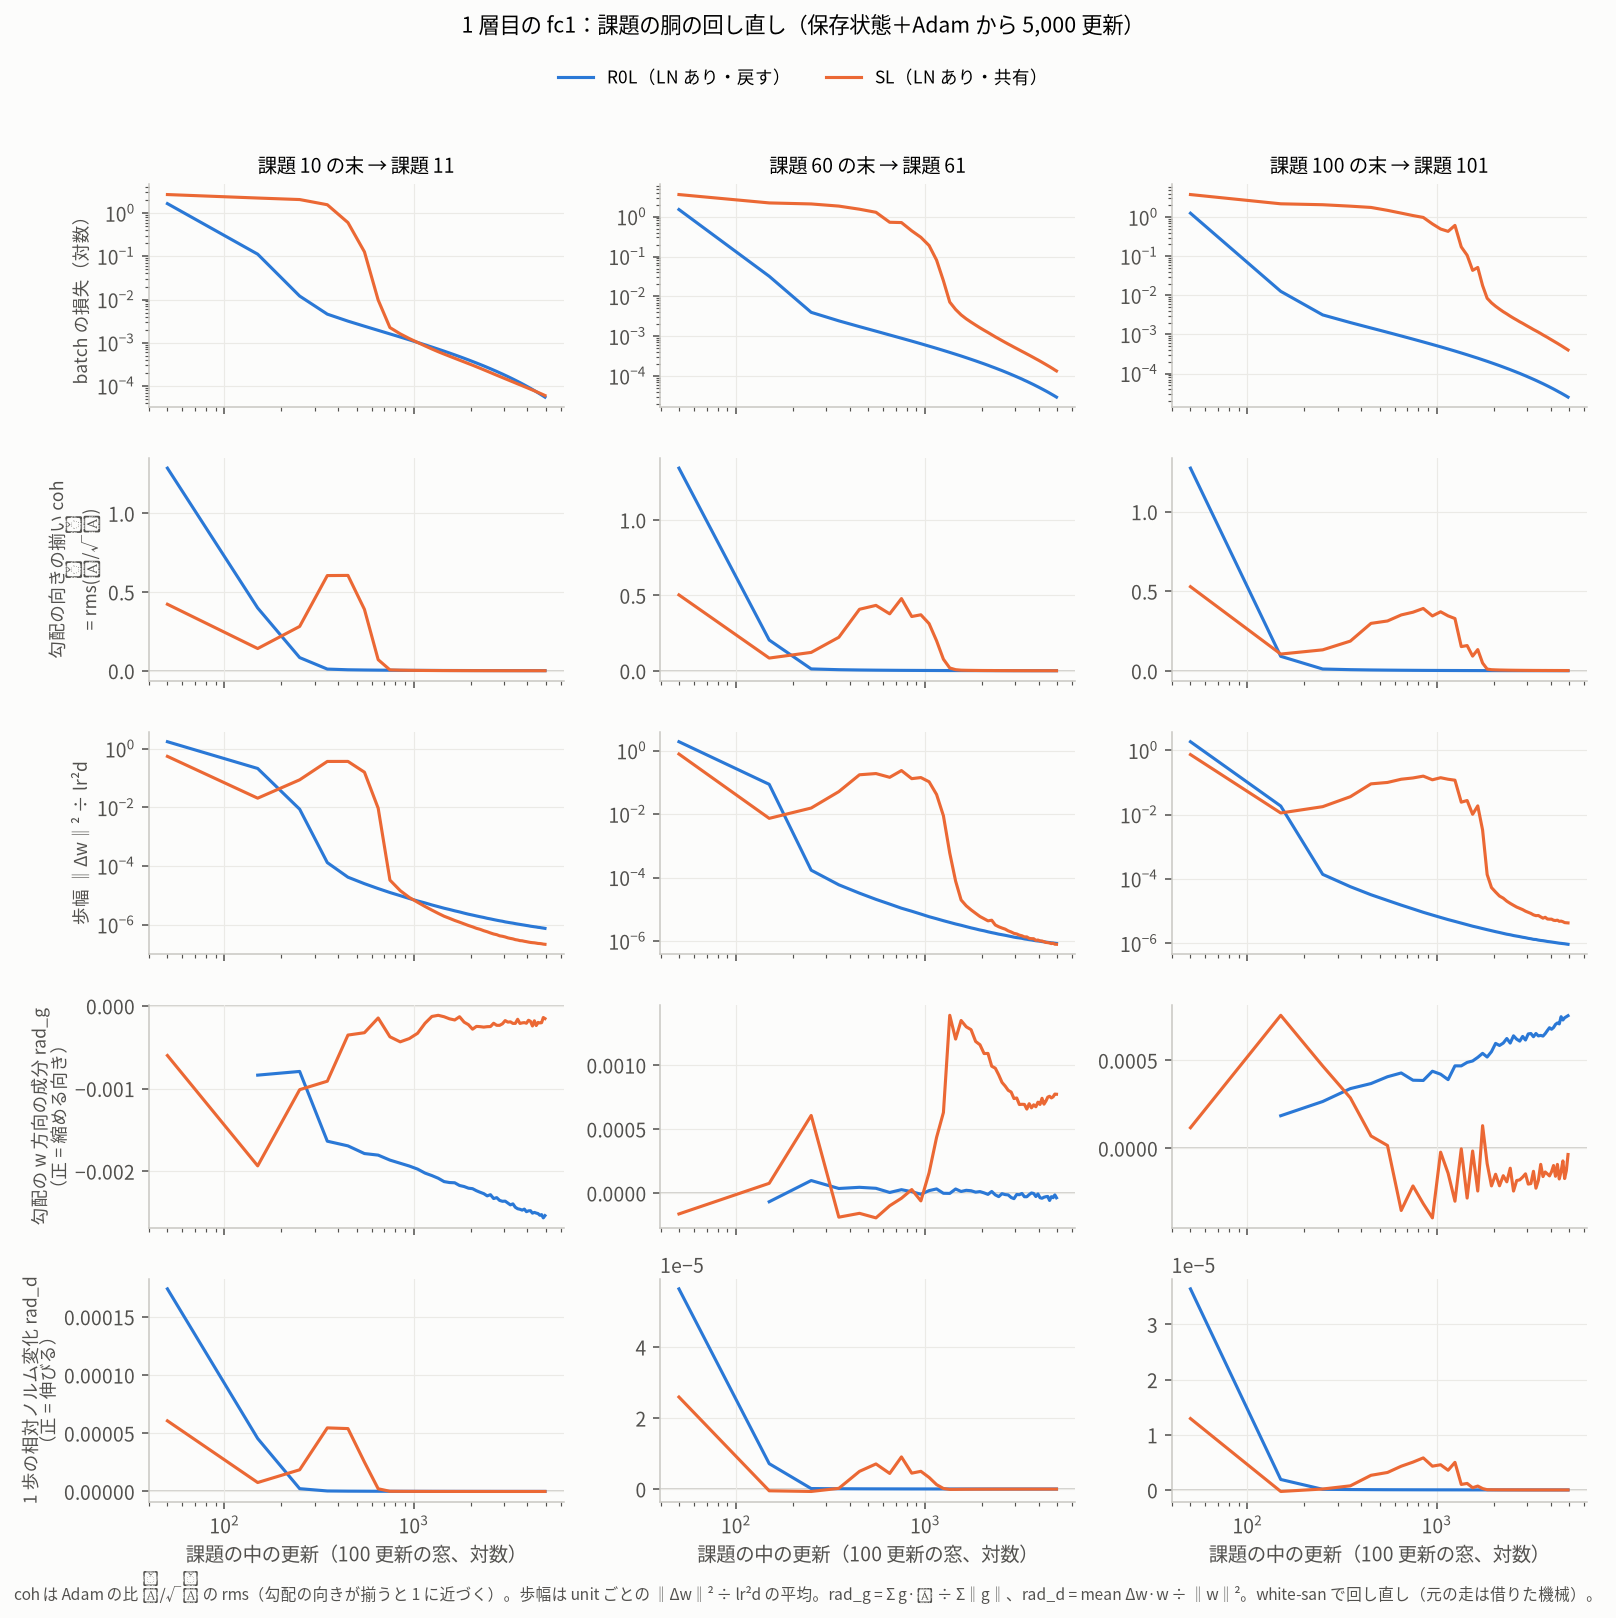
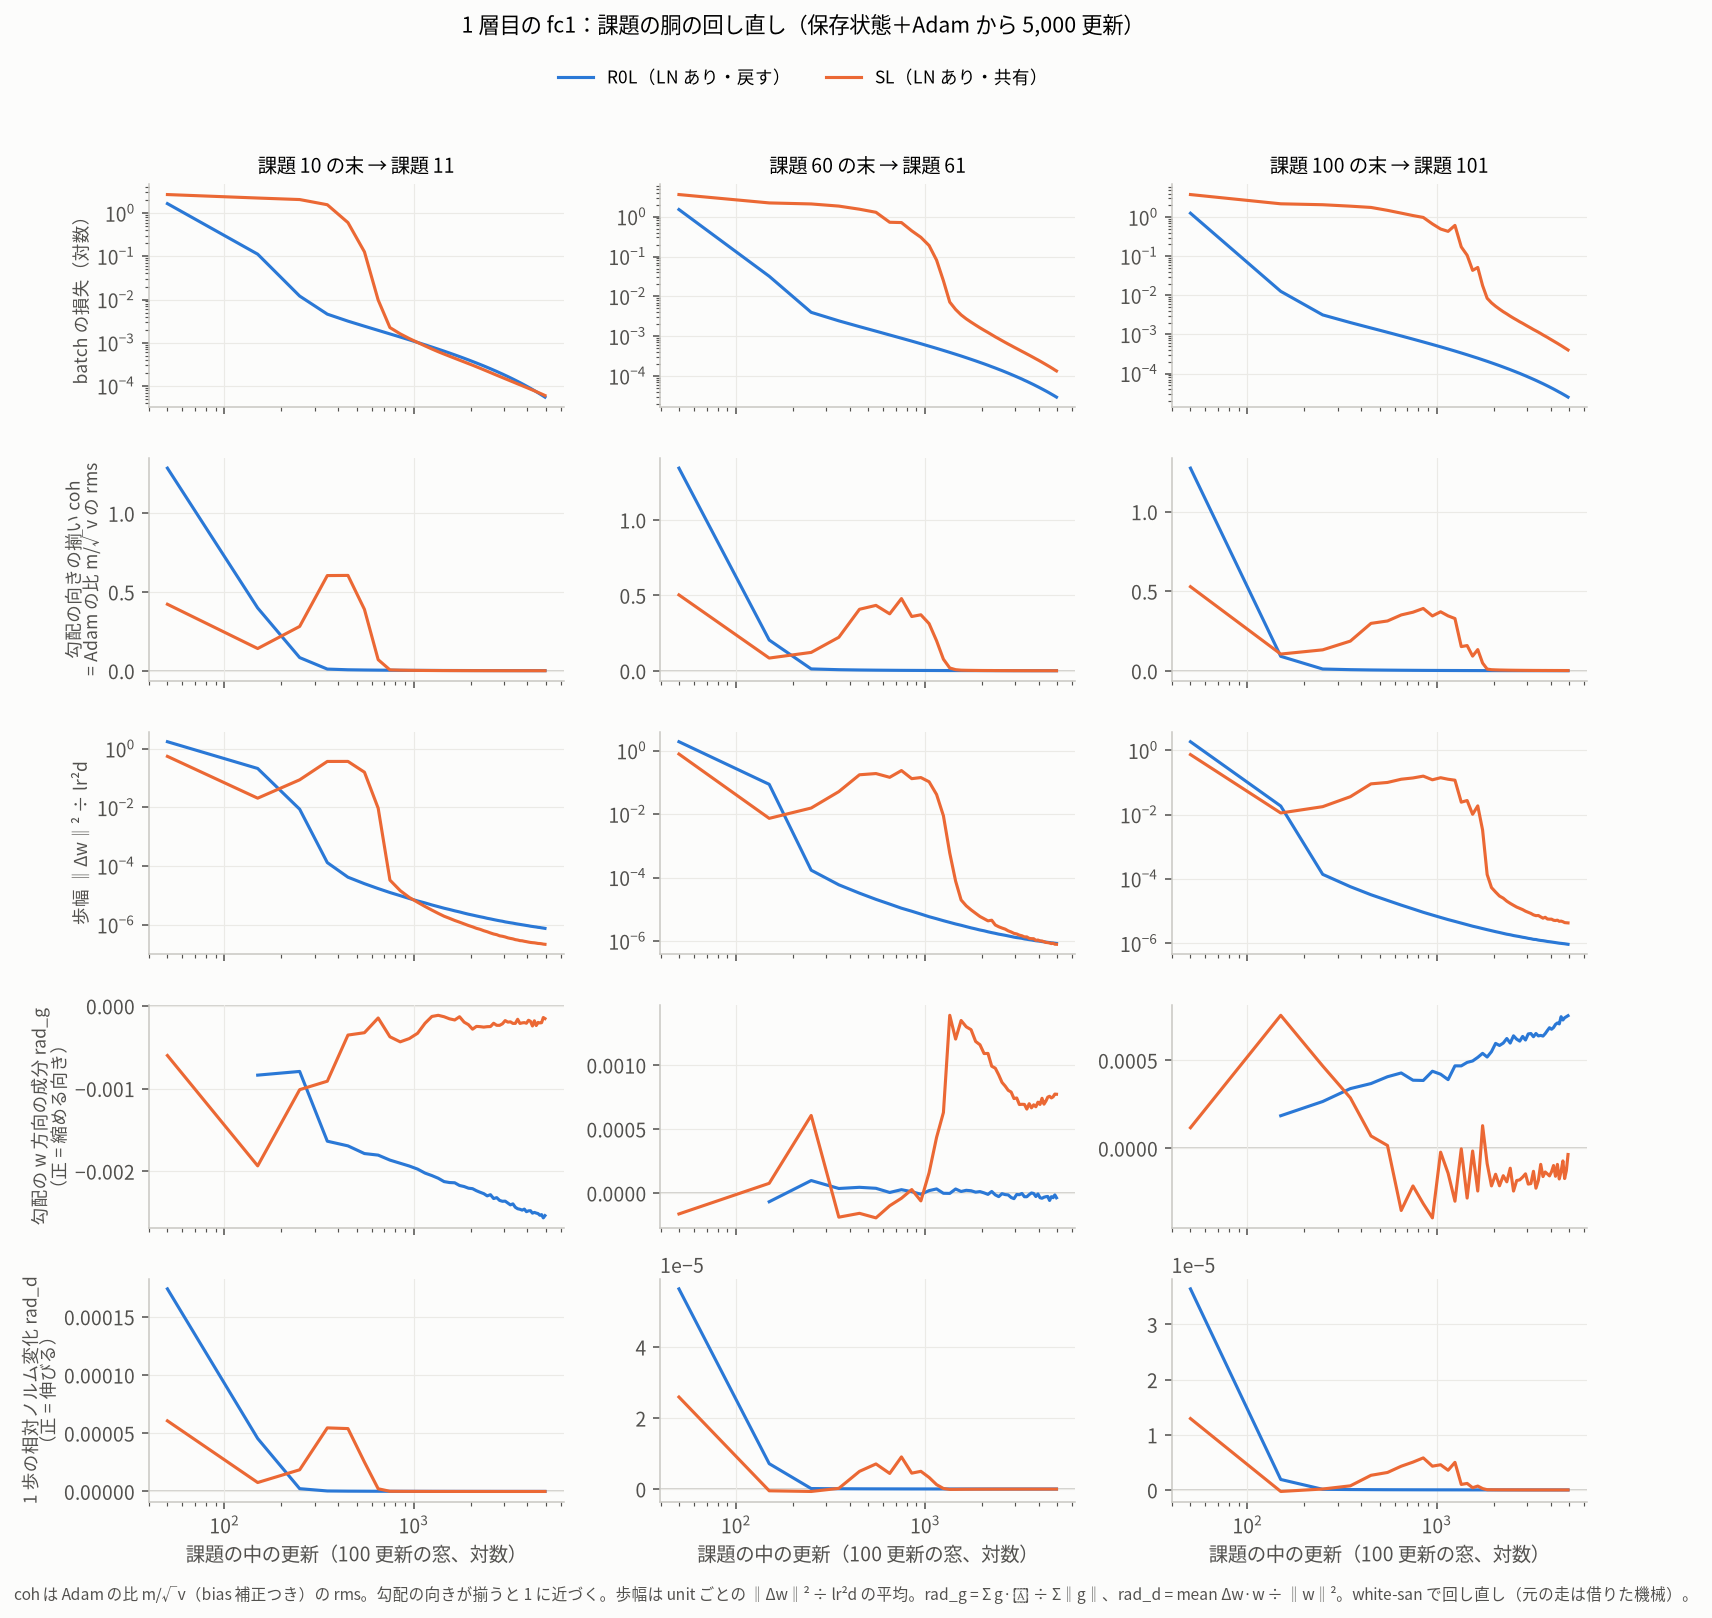
vit_long_1024: 回し直しの図のラベルの文字化け（m̂ v̂）を直す

diff --git a/analysis/vit_long_1024/posthoc_2blk/body_replay_plot.py b/analysis/vit_long_1024/posthoc_2blk/body_replay_plot.py
@@ -17,7 +17,7 @@ plt.rcParams.update({'font.family': 'Noto Sans CJK JP', 'font.size': 10, 'axes.e
 ARMS = [('R0L', 'R0L（LN あり・戻す）', '#2a78d6'), ('SL', 'SL（LN あり・共有）', '#eb6834')]
 TS = (10, 60, 100)
 W = 100
-ROWS = [('loss', 'batch の損失（対数）', True), ('coh', '勾配の向きの揃い coh\n= rms(m̂/√v̂)', False),
+ROWS = [('loss', 'batch の損失（対数）', True), ('coh', '勾配の向きの揃い coh\n= Adam の比 m/√v の rms', False),
         ('step', '歩幅 ‖Δw‖² ÷ lr²d', True), ('rad_g', '勾配の w 方向の成分 rad_g\n（正 = 縮める向き）', False),
         ('rad_d', '1 歩の相対ノルム変化 rad_d\n（正 = 伸びる）', False)]
 
@@ -59,7 +59,7 @@ def main(src, out):
         h, l = axes[0][0].get_legend_handles_labels()
         fig.legend(h, l, loc='upper center', ncol=2, frameon=False, fontsize=9, bbox_to_anchor=(0.5, 0.995))
         fig.suptitle(f'{layer + 1} 層目の fc1：課題の胴の回し直し（保存状態＋Adam から 5,000 更新）', y=1.02, fontsize=11)
-        fig.text(0.01, -0.01, 'coh は Adam の比 m̂/√v̂ の rms（勾配の向きが揃うと 1 に近づく）。歩幅は unit ごとの ‖Δw‖² ÷ lr²d の平均。'
+        fig.text(0.01, -0.01, 'coh は Adam の比 m/√v（bias 補正つき）の rms。勾配の向きが揃うと 1 に近づく。歩幅は unit ごとの ‖Δw‖² ÷ lr²d の平均。'
                  'rad_g = Σ g·ŵ ÷ Σ‖g‖、rad_d = mean Δw·w ÷ ‖w‖²。white-san で回し直し（元の走は借りた機械）。',
                  fontsize=8, color='#52514e')
         fig.tight_layout(rect=(0, 0, 1, 0.97))
